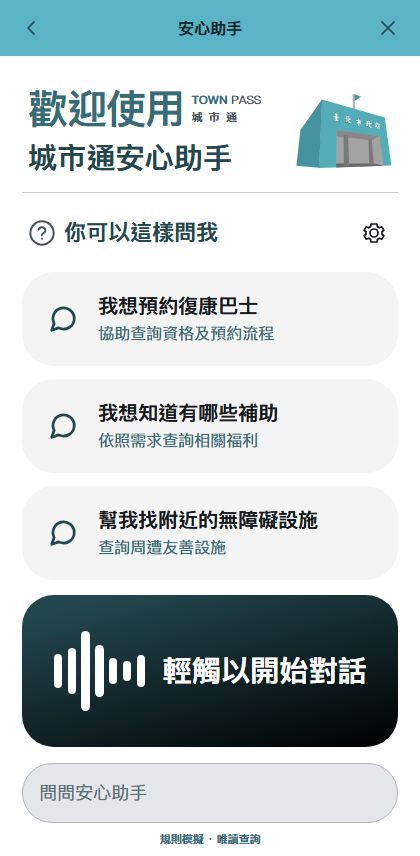
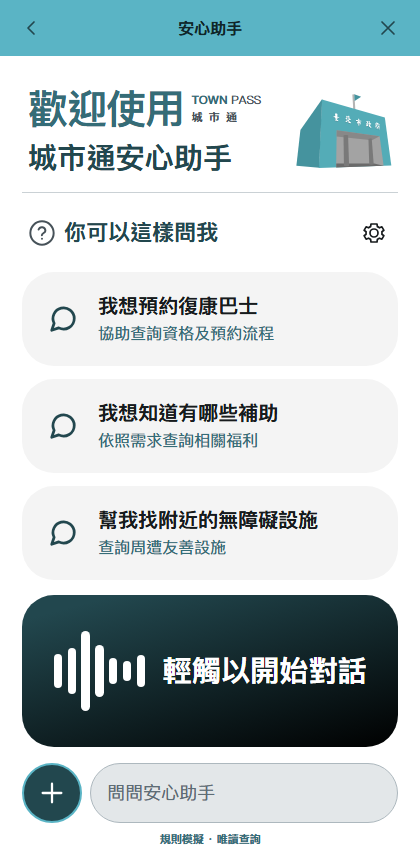
feat(frontend): restore the composer photo shortcut (#31)
- Add a plus button to the composer that picks a photo and starts the editable report draft described from it
- Explain instead of opening the picker when no model can describe photos
- Give the shortcut its own accessible name and hide its file input from screen readers

Changed region(s): [[0.031, 0.8808, 0.4952, 0.972]]

diff --git a/frontend/agent-mvp/src/App.vue b/frontend/agent-mvp/src/App.vue
@@ -66,6 +66,9 @@ const busy = ref(false);
 const stage = ref<'routing' | 'searching'>('routing');
 const resultHeading = ref<HTMLElement>();
 const requestInput = ref<HTMLTextAreaElement>();
+const photoInput = ref<HTMLInputElement>();
+const pendingPhoto = ref<File | null>(null);
+const photoEntryNotice = ref<'photoSimulated' | 'photoNotReady' | 'photoError' | null>(null);
 const assistantBody = ref<HTMLElement>();
 const keyboardViewportHeight = ref<number | null>(null);
 const preferencesDialog = ref<HTMLDialogElement>();
@@ -493,6 +496,8 @@ function reset() {
   resumed.value = false;
   lastRequest.value = '';
   input.value = '';
+  pendingPhoto.value = null;
+  photoEntryNotice.value = null;
   runner.cancelVision();
   cancelVoice();
   input.value = '';
@@ -503,6 +508,37 @@ function stay() {
   if (state.navigation) {
     state.navigation = null;
     state.notice = 'navigationDeclined';
+  }
+}
+function requestPhoto() {
+  if (busy.value || state.draft) return;
+  if (!canSeePhotos.value) {
+    photoEntryNotice.value = mode.value === 'demo' ? 'photoSimulated' : 'photoNotReady';
+    return;
+  }
+  photoEntryNotice.value = null;
+  photoInput.value?.click();
+}
+async function selectPhoto(event: Event) {
+  const input = event.target as HTMLInputElement;
+  const photo = input.files?.[0];
+  input.value = '';
+  if (!photo || !canSeePhotos.value || busy.value || state.draft) return;
+  if (
+    !['image/jpeg', 'image/png', 'image/webp'].includes(photo.type) ||
+    photo.size > 20 * 1024 * 1024
+  ) {
+    photoEntryNotice.value = 'photoError';
+    return;
+  }
+  photoEntryNotice.value = null;
+  pendingPhoto.value = photo;
+  home.value = false;
+  if (state.navigation?.id !== 'townpass_report') await submit(t.value.reportRequest);
+  await nextTick();
+  if (state.navigation?.id !== 'townpass_report') {
+    pendingPhoto.value = null;
+    photoEntryNotice.value = 'photoError';
   }
 }
 async function applyConfig() {
@@ -826,7 +862,8 @@ onBeforeUnmount(() => {
                   :demo-mode="mode === 'demo'"
                   :describe="(image: string) => runner.describePhoto(image, locale)"
                   :cancel-describe="() => runner.cancelVision()"
-                  :photo-file="null"
+                  :photo-file="pendingPhoto"
+                  @photo-consumed="pendingPhoto = null"
                   @stay="stay"
                 />
                 <p v-if="state.failure?.hint" class="notice-box">{{ state.failure.hint }}</p>
@@ -995,6 +1032,26 @@ onBeforeUnmount(() => {
       </div>
       <p v-if="state.draft && !home" class="draft-hint">{{ t.draftHint }}</p>
       <form class="composer" @submit.prevent="submit()">
+        <input
+          id="assistant-photo-input"
+          ref="photoInput"
+          class="sr-only"
+          type="file"
+          accept="image/jpeg,image/png,image/webp"
+          :aria-label="t.photoPicker"
+          aria-hidden="true"
+          tabindex="-1"
+          @change="selectPhoto"
+        />
+        <button
+          type="button"
+          class="add-button"
+          :aria-label="t.photoReport"
+          :disabled="busy || !!state.draft"
+          @click="requestPhoto"
+        >
+          <UiIcon name="plus" />
+        </button>
         <label class="sr-only" for="request">{{ t.questionLabel }}</label>
         <div class="composer-box">
           <textarea
@@ -1023,6 +1080,9 @@ onBeforeUnmount(() => {
       <p id="input-help" class="composer-note">
         <span>{{ mode === 'demo' ? t.ruleBadge : t.modelBadge }}</span
         ><span class="scope-copy"> · {{ !toolClient ? t.demoBadge : t.readOnlyBadge }}</span>
+      </p>
+      <p v-if="photoEntryNotice" class="photo-entry-note" role="status">
+        {{ t[photoEntryNotice] }}
       </p>
       <p v-if="conversationSaveFailed" role="status">{{ t.conversationSaveFailed }}</p>
     </footer>

diff --git a/frontend/agent-mvp/tests/app.e2e.ts b/frontend/agent-mvp/tests/app.e2e.ts
@@ -389,6 +389,14 @@ test('welcome, settings and composer reflow at 200% in both orientations', async
         )
         .toBe(true);
       expect(await page.locator('.composer-box').isVisible()).toBe(true);
+      const plus = await page
+        .getByRole('button', {
+          name: locale === 'en' ? 'Report with a photo' : '用照片報案',
+        })
+        .boundingBox();
+      const composer = await page.locator('.composer-box').boundingBox();
+      expect(Math.abs(plus!.height - composer!.height)).toBeLessThanOrEqual(1);
+      expect(Math.abs(plus!.y - composer!.y)).toBeLessThanOrEqual(1);
       expect(
         await page
           .locator('.voice-label')
@@ -510,6 +518,13 @@ test('native model setup stays in settings and does not push the home off screen
     .toBe(true);
   await expect(page.getByRole('button', { name: '啟動手機模型', exact: true })).toBeVisible();
   await expect(page.getByRole('button', { name: '開始語音輸入', exact: true })).toHaveCount(0);
+  await page.getByRole('button', { name: '用照片報案', exact: true }).click();
+  await expect(page.getByText('請先啟動手機模型，再用照片辨識。', { exact: true })).toBeVisible();
+  expect(
+    await page
+      .locator('#assistant-photo-input')
+      .evaluate((input: HTMLInputElement) => input.files?.length),
+  ).toBe(0);
   await page.getByRole('button', { name: '設定', exact: true }).click();
   await expect(page.getByRole('dialog')).toBeVisible();
   await expect(
@@ -517,4 +532,23 @@ test('native model setup stays in settings and does not push the home off screen
   ).toBeEnabled();
   await page.getByRole('button', { name: '關閉設定', exact: true }).click();
   await expect(page.getByRole('heading', { name: '歡迎使用', exact: true })).toBeVisible();
+});
+
+test('the plus shortcut only accepts photos when a model can describe them', async ({ page }) => {
+  const plus = page.getByRole('button', { name: '用照片報案', exact: true });
+  await expect(plus).toBeVisible();
+  await expect(page.locator('#assistant-photo-input')).toHaveAttribute(
+    'accept',
+    'image/jpeg,image/png,image/webp',
+  );
+  await plus.click();
+  await expect(
+    page.getByText('規則模擬模式不會辨識照片；請切換到手機或本機模型。', { exact: true }),
+  ).toBeVisible();
+  expect(
+    await page
+      .locator('#assistant-photo-input')
+      .evaluate((input: HTMLInputElement) => input.files?.length),
+  ).toBe(0);
+  await expect(page.locator('.navigation-card')).toHaveCount(0);
 });

diff --git a/frontend/agent-mvp/tests/townpass.e2e.ts b/frontend/agent-mvp/tests/townpass.e2e.ts
@@ -225,7 +225,7 @@ test('a citizen report is drafted from what was said and opens the form filled i
   });
 });
 
-test('a photo is described only inside the editable report form, never submitted automatically', async ({
+test('the plus photo shortcut creates an editable report, never submitting automatically', async ({
   page,
 }) => {
   let visionCalls = 0;
@@ -271,10 +271,11 @@ test('a photo is described only inside the editable report form, never submitted
   await page.getByLabel('模型來源').selectOption('local');
   await page.getByRole('button', { name: '套用接點', exact: true }).click();
   await page.getByRole('button', { name: '關閉設定', exact: true }).click();
-  await send(page, '路燈壞了我要陳情');
-  await expect(page.getByRole('heading', { name: '有話要說', exact: true })).toBeVisible();
-  await expect(page.getByText('加照片幫我描述', { exact: true })).toBeVisible();
-  await page.locator('#report-photo-input').setInputFiles({
+  const chooser = page.waitForEvent('filechooser');
+  await page.getByRole('button', { name: '用照片報案', exact: true }).click();
+  await (
+    await chooser
+  ).setFiles({
     name: 'street.png',
     mimeType: 'image/png',
     buffer: Buffer.from(
@@ -282,6 +283,7 @@ test('a photo is described only inside the editable report form, never submitted
       'base64',
     ),
   });
+  await expect(page.getByRole('heading', { name: '有話要說', exact: true })).toBeVisible();
   await expect(page.locator('#draft-description')).toHaveValue(/照片可見路邊樹木倒下/);
   expect(visionCalls).toBe(1);
   expect(

diff --git a/frontend/agent-mvp/src/i18n.ts b/frontend/agent-mvp/src/i18n.ts
@@ -244,6 +244,8 @@ const zh = {
   draftLocationHint: '例如：和平東路二段 100 號前',
   draftIncomplete: '主旨和描述都要填，或兩個都清空、到頁面再寫。',
   photoAdd: '加照片幫我描述',
+  photoPicker: '選擇要描述的照片',
+  photoReport: '用照片報案',
   photoHint:
     '可以拍現場或選一張照片，我會看照片幫你描述問題。照片只用來幫你描述，不會自動上傳；到表單後可自行附加。',
   photoBusy: '正在看照片…',
@@ -543,6 +545,8 @@ const en: Record<keyof typeof zh, string> = {
   draftIncomplete:
     'Fill in both subject and description, or clear both and write them on the page.',
   photoAdd: 'Add a photo to help describe',
+  photoPicker: 'Choose a photo to describe',
+  photoReport: 'Report with a photo',
   photoHint:
     'Take or choose a photo of the scene and I will describe the problem for you. The photo is only used to help you describe it; it is not uploaded automatically — you can attach it yourself on the form.',
   photoBusy: 'Looking at the photo…',

diff --git a/frontend/agent-mvp/src/style.css b/frontend/agent-mvp/src/style.css
@@ -806,6 +806,26 @@ dd {
   align-items: center;
   gap: 0.5rem;
 }
+.add-button {
+  display: inline-flex;
+  flex-shrink: 0;
+  align-items: center;
+  justify-content: center;
+  width: var(--composer-control);
+  height: var(--composer-control);
+  padding: 0;
+  border: 2px solid var(--primary);
+  border-radius: 50%;
+  color: white;
+  background: var(--deep);
+}
+.add-button:hover:not(:disabled) {
+  background: var(--teal);
+}
+.add-button svg {
+  width: 2rem;
+  height: 2rem;
+}
 .composer-box {
   position: relative;
   display: flex;
@@ -903,6 +923,12 @@ dd {
 .composer-note > span {
   color: var(--teal);
   font-weight: 600;
+}
+.photo-entry-note {
+  margin: 0.5rem 0 0;
+  color: var(--teal);
+  font-size: 0.875rem;
+  text-align: center;
 }
 .draft-hint {
   padding-bottom: 0.75rem;

diff --git a/frontend/agent-mvp/eslint.config.js b/frontend/agent-mvp/eslint.config.js
@@ -4,7 +4,9 @@ import vue from 'eslint-plugin-vue';
 import globals from 'globals';
 
 export default ts.config(
-  { ignores: ['dist/**', 'node_modules/**', 'test-results/**', 'playwright-report/**'] },
+  {
+    ignores: ['.vite/**', 'dist/**', 'node_modules/**', 'test-results/**', 'playwright-report/**'],
+  },
   js.configs.recommended,
   ...ts.configs.recommended,
   ...vue.configs['flat/essential'],

diff --git a/frontend/agent-mvp/docs/ui-design.md b/frontend/agent-mvp/docs/ui-design.md
@@ -14,7 +14,7 @@
 - 頁面填滿視窗；首頁固定一屏，聊天內容及設定可在各自的區域捲動。
 - 標誌組合維持同列並等比例縮放。瀏覽器支援語音辨識時才顯示語音按鈕；Android App 內將主要入口改為手機模型啟動。
 - 首頁建議依實際高度逐張增減，不分頁。空間極小時可以直接輸入需求。
-- 通用附件尚未接入模型或工具，移除底部「＋」入口。支援影像的模型啟動後，「有話要說」確認卡可另外選照片協助產生描述；仍須由使用者檢查並按「前往」，不會自動提交通報。
+- 底部「＋」和輸入列等高，僅接受 JPEG、PNG、WebP 照片。支援影像的模型啟動後，所選照片進入「有話要說」確認卡產生可編輯描述；仍須由使用者檢查並按「前往」，不會自動提交通報。模型未就緒時顯示啟動提示，不打開無效的檔案選擇器；PDF、文字檔不提供上傳入口。
 - 設定位於首頁建議區與聊天標題旁。既有草稿／查詢使用相同首頁結構；待確認草稿可從建議卡或主要按鈕繼續。
 - 原位的顏色、透明度及展開／收合過渡提供操作回饋；互動元件不使用位移或浮起效果。系統設定減少動態效果時停用過渡。
 
